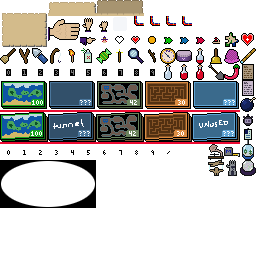
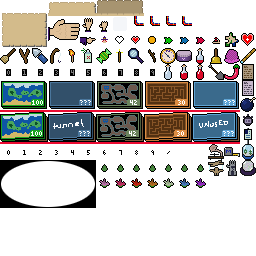
proper display of flowers and running time in stats vellum

Changed region(s): [[0.375, 0.625, 0.8125, 0.75]]

diff --git a/src/game/modal/vellum_stats.c b/src/game/modal/vellum_stats.c
@@ -5,8 +5,6 @@
 
 struct vellum_stats {
   struct vellum hdr;
-  //char text[COLC*ROWC];
-  //int colonp;
   int pct;
   struct completable total;
   struct completable completablev[COMPLETABLE_LIMIT];
@@ -14,6 +12,13 @@ struct vellum_stats {
   int texid,texw,texh;
   int store_listener;
   int dirty;
+  
+  // Positions relative to (tex) for dynamic values:
+  int clockx,clocky;
+  int flowerx,flowery;
+  int clocktex,clockw,clockh;
+  int clocksec;
+  int flowerv[7];
 };
 
 #define VELLUM ((struct vellum_stats*)vellum)
@@ -23,6 +28,7 @@ struct vellum_stats {
  
 static void _stats_del(struct vellum *vellum) {
   egg_texture_del(VELLUM->texid);
+  egg_texture_del(VELLUM->clocktex);
   store_unlisten(VELLUM->store_listener);
 }
 
@@ -68,6 +74,35 @@ static void _stats_store_changed(char type,int id,int value,void *userdata) {
   }
 }
 
+/* Format time in seconds for display.
+ */
+ 
+static int stats_format_time(char *dst,int dsta,int sec) {
+  if (!dst||(dsta<1)) return 0;
+  if (sec<0) sec=0;
+  int min=sec/60; sec%=60;
+  int hour=min/60; min%=60;
+  if (hour>999) {
+    hour=999;
+    min=99;
+    sec=99;
+  }
+  int dstc=0;
+  if (hour>=100) { if (dstc<dsta) dst[dstc]='0'+hour/100; dstc++; }
+  if (hour>=10) { if (dstc<dsta) dst[dstc]='0'+(hour/10)%10; dstc++; }
+  if (hour>=1) {
+    if (dstc<dsta) dst[dstc]='0'+hour%10; dstc++;
+    if (dstc<dsta) dst[dstc]=':'; dstc++;
+  }
+  if ((hour>0)||(min>=10)) { if (dstc<dsta) dst[dstc]='0'+min/10; dstc++; }
+  // Minutes ones and lower print always.
+  if (dstc<dsta) dst[dstc]='0'+min%10; dstc++;
+  if (dstc<dsta) dst[dstc]=':'; dstc++;
+  if (dstc<dsta) dst[dstc]='0'+sec/10; dstc++;
+  if (dstc<dsta) dst[dstc]='0'+sec%10; dstc++;
+  return dstc;
+}
+
 /* Fill rectangle.
  */
  
@@ -103,6 +138,18 @@ static void stats_render_completable(uint32_t *dst,int y,struct vellum *vellum,c
     g.font,k,kc,kcolor
   );
   switch (comp->strix) {
+  
+    /* Flowers: Record position so we can render live with animated flower icons.
+     */
+    case 30: {
+        int dstx=sepx;
+        dstx+=font_render(
+          dst+y*VELLUM->texw+dstx,VELLUM->texw-dstx,VELLUM->texh-y,VELLUM->texw<<2,
+          g.font,": ",2,0x000000ff
+        );
+        VELLUM->flowerx=dstx;
+        VELLUM->flowery=y;
+      } break;
       
     /* Completion: Progress bar and percentage.
      */
@@ -121,47 +168,16 @@ static void stats_render_completable(uint32_t *dst,int y,struct vellum *vellum,c
         );
       } break;
       
-    /* Play time: Render as "HH:MM:SS", and pull it from the store, the completable is a dummy.
-     * TODO Capture the output position for this, but then do the rendering from a separate texture, so we can update it every second.
-     * TODO Something similar for #30 Flowers, so we can show animated icons instead of a count.
+    /* Play time: Record position. We'll render it as a separate texture, so as not to redraw this whole report every second.
      */
     case 32: {
-        double fs=store_get_clock(NS_clock_playtime)+store_get_clock(NS_clock_battletime)+store_get_clock(NS_clock_pausetime);
-        int ms=(int)(fs*1000.0);
-        int seconds=ms/1000; ms%=1000;
-        int minutes=seconds/60; seconds%=60;
-        int hours=minutes/60; minutes%=60;
-        if (hours>999) {
-          hours=ms=999;
-          minutes=seconds=99;
-        }
-        char tmp[]={
-          '0'+hours/100,
-          '0'+(hours/10)%10,
-          '0'+hours%10,
-          ':',
-          '0'+minutes/10,
-          '0'+minutes%10,
-          ':',
-          '0'+seconds/10,
-          '0'+seconds%10,
-        };
-        // Trim zeroes off the front down to minute ones digit.
-        int lopc;
-        if (hours>=100) lopc=0;
-        else if (hours>=10) lopc=1;
-        else if (hours>=1) lopc=2;
-        else if (minutes>=10) lopc=4;
-        else lopc=5;
         int dstx=sepx;
         dstx+=font_render(
           dst+y*VELLUM->texw+dstx,VELLUM->texw-dstx,VELLUM->texh-y,VELLUM->texw<<2,
           g.font,": ",2,0x000000ff
         );
-        font_render(
-          dst+y*VELLUM->texw+dstx,VELLUM->texw-dstx,VELLUM->texh-y,VELLUM->texw<<2,
-          g.font,tmp+lopc,sizeof(tmp)-lopc,0x000000ff
-        );
+        VELLUM->clockx=dstx;
+        VELLUM->clocky=y;
       } break;
       
     /* Maps: Show as a percentage.
@@ -200,9 +216,12 @@ static void stats_render_completable(uint32_t *dst,int y,struct vellum *vellum,c
 /* Render report.
  * (dst) has size (VELLUM->texw,VELLUM->texh) and is initially zero.
  * (VELLUM->completablev,total,pct) must be populated first.
+ * We'll replace (clockx,clocky,flowerx,flowery) along the way.
  */
  
 static void stats_render_report(uint32_t *dst,struct vellum *vellum,int sepx) {
+  VELLUM->clockx=VELLUM->clocky=-1;
+  VELLUM->flowerx=VELLUM->flowery=-1;
   int lineh=font_get_line_height(g.font);
   int y=2;
   stats_render_completable(dst,y,vellum,&VELLUM->total,sepx); y+=lineh;
@@ -229,6 +248,15 @@ static int stats_string_width(int strix) {
  */
  
 static void stats_generate_report(struct vellum *vellum) {
+
+  // Collect flowers a la carte. Completables only describes them as a total count.
+  VELLUM->flowerv[0]=store_get_fld(NS_fld_root1);
+  VELLUM->flowerv[1]=store_get_fld(NS_fld_root2);
+  VELLUM->flowerv[2]=store_get_fld(NS_fld_root3);
+  VELLUM->flowerv[3]=store_get_fld(NS_fld_root4);
+  VELLUM->flowerv[4]=store_get_fld(NS_fld_root5);
+  VELLUM->flowerv[5]=store_get_fld(NS_fld_root6);
+  VELLUM->flowerv[6]=store_get_fld(NS_fld_root7);
 
   // Collect the essential stats.
   VELLUM->completablec=game_get_completables(VELLUM->completablev,COMPLETABLE_LIMIT);
@@ -258,8 +286,33 @@ static void _stats_render(struct vellum *vellum,int x,int y,int w,int h) {
     VELLUM->dirty=0;
     stats_generate_report(vellum);
   }
+  
+  // If the clock reached a new second, redraw it.
+  int sec=(int)(store_get_clock(NS_clock_playtime)+store_get_clock(NS_clock_battletime)+store_get_clock(NS_clock_pausetime));
+  if (sec!=VELLUM->clocksec) {
+    VELLUM->clocksec=sec;
+    char tmp[16];
+    int tmpc=stats_format_time(tmp,sizeof(tmp),sec);
+    font_render_to_texture(VELLUM->clocktex,g.font,tmp,tmpc,FBW,FBH,0x000000ff);
+    egg_texture_get_size(&VELLUM->clockw,&VELLUM->clockh,VELLUM->clocktex);
+  }
+  
+  int dstx=x+(w>>1)-(VELLUM->texw>>1);
+  int dsty=y+(h>>1)-(VELLUM->texh>>1);
   graf_set_input(&g.graf,VELLUM->texid);
-  graf_decal(&g.graf,x+(w>>1)-(VELLUM->texw>>1),y+(h>>1)-(VELLUM->texh>>1),0,0,VELLUM->texw,VELLUM->texh);
+  graf_decal(&g.graf,dstx,dsty,0,0,VELLUM->texw,VELLUM->texh);
+  
+  // Play time. Keeps running while paused.
+  graf_set_input(&g.graf,VELLUM->clocktex);
+  graf_decal(&g.graf,dstx+VELLUM->clockx,dsty+VELLUM->clocky,0,0,VELLUM->clockw,VELLUM->clockh);
+  
+  // Flowers.
+  graf_set_image(&g.graf,RID_image_pause);
+  int flx=dstx+VELLUM->flowerx+2;
+  int fly=dsty+VELLUM->flowery+4;
+  int i=0; for (;i<7;i++,flx+=10) {
+    graf_tile(&g.graf,flx,fly,0xa6+i+(VELLUM->flowerv[i]?0x10:0),0);
+  }
 }
 
 /* New.
@@ -279,6 +332,8 @@ struct vellum *vellum_new_stats(struct modal *parent) {
   
   VELLUM->store_listener=store_listen(0,_stats_store_changed,vellum);
   VELLUM->dirty=1;
+  VELLUM->clocktex=egg_texture_new();
+  VELLUM->clocksec=-1;
   
   return vellum;
 }

diff --git a/src/game/shared_symbols.h b/src/game/shared_symbols.h
@@ -548,5 +548,7 @@
 #define NS_clock_playtime 0
 #define NS_clock_pausetime 1
 #define NS_clock_battletime 2
+#define NS_clock_mainclear 3 /* Timestamp when you strangle the last Root Devil. */
+#define NS_clock_fullclear 4 /* Timestamp when you reach 100% completion. */
   
 #endif
